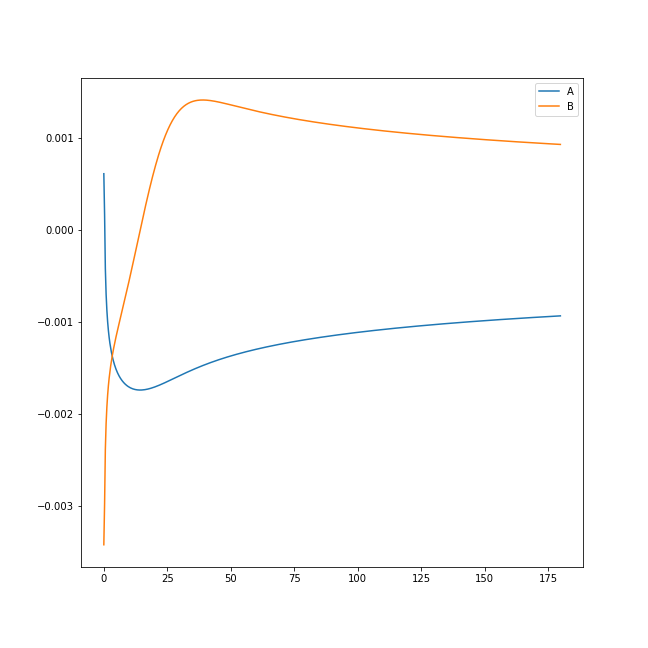
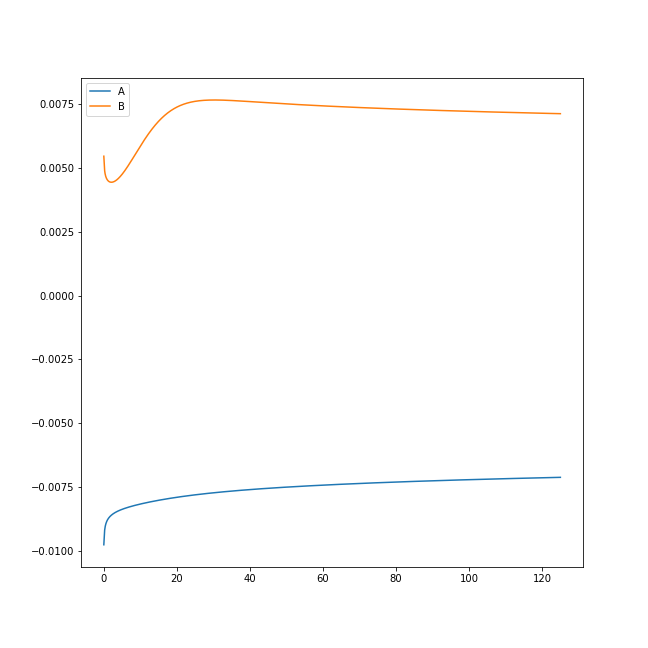
Playing with trends and plots

diff --git a/scripts/X/attempt_2.py b/scripts/X/attempt_2.py
@@ -12,10 +12,10 @@ import matplotlib.pyplot as plt
 #Global Variables-------------------------------------------------------
 
 #User input
-n = 600 #Interval Steps
-ZETA_MAX = 180
-ZETA_Sn = [0.1]
-loops = 20
+n = 2200 #Interval Steps
+ZETA_MAX = 125
+ZETA_Sn = [0.01, .1, 0.5, 1]
+loops = 8
 #-----------------------------------------------------------------------
 #Global variables afterwards
 DEL = (ZETA_MAX)/(n + 1) #Spacing of intervals
@@ -78,7 +78,8 @@ def matrix_const(A, B, ZETA, ZETA_S):
     Parameters:
         A: 1D np array
         B: 1D np array
-        Zeta: 1D np array
+        ZETA: 1D np array
+        ZETA_S: np scalar
     Outputs:
         C: 1D np array
         D: 1D np array
@@ -143,7 +144,6 @@ def finite_differences(A, B, ZETA_S):
     epsilon = epsilons[N]
     norm = sum(np.sqrt(goo)*DEL*(U_bar**2))
     U_bar = U_bar / norm
-    print(np.trapz(U_bar, ZETA))
     U_bar[0] = 0
     
     return U_bar, epsilon
@@ -273,14 +273,14 @@ def main():
         plt.savefig(f'A_and_B_of_{ZETA_Sn[j]}.png')
     plt.figure(figsize=(9,9))
     goo, grr = metric(A_array, B_array)
-    H_vec = H_ratio_func(ZETA, goo, grr)
-    plt.plot(ZETA, H_vec)
-    plt.xlim((0, 20))
-    plt.ylim((-.0002, .0002))
+    H_vec = radial_func(U_bar, goo, grr, ZETA)
+    plt.plot(ZETA, H_vec**2)
+    plt.show()
     plt.figure(figsize=(9, 9))
     for i in range(len(ZETA_Sn)):
         plt.plot(ZETA, abs(U_Bars_matrix[:, i]), label = f'ZETA_S = {ZETA_Sn[i]}')
     plt.title(f'zeta_s value of {ZETA_Sn[j]}')
+    plt.legend()
     plt.savefig(f'U_bars_of_{ZETA_Sn[j]}.png')
     print(epsilons)
     
